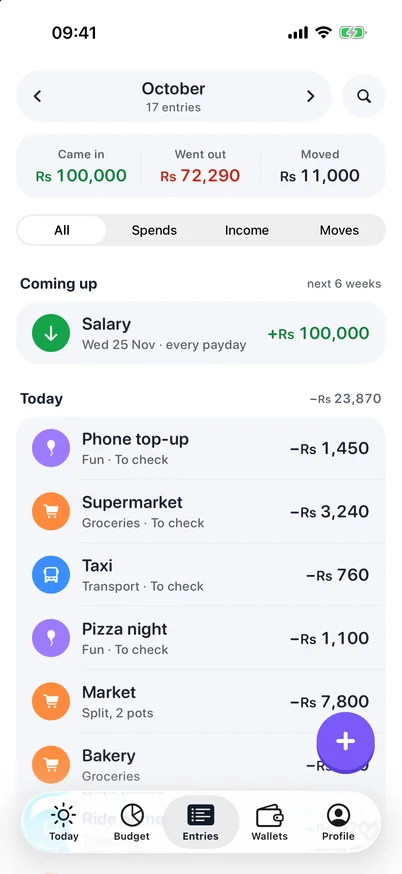
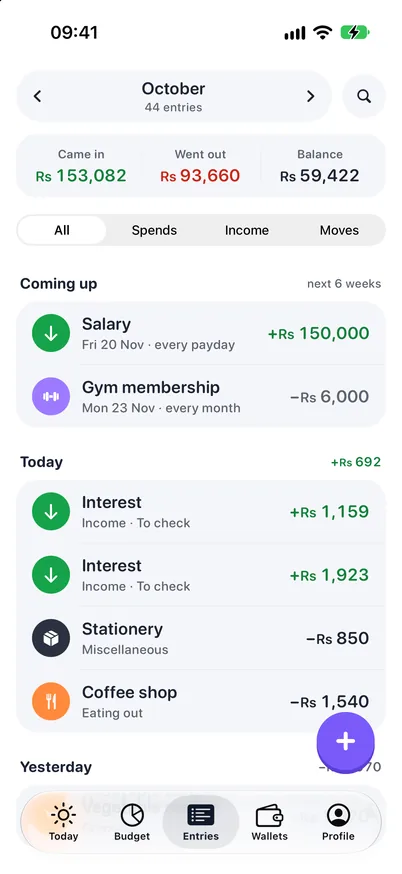
Add after you pay leads with Paste bank text and Siri; island once a day; Entries balance

diff --git a/privacy.html b/privacy.html
@@ -13,7 +13,7 @@
 <header class="nav lifted"><a class="brand" href="index.html"><img src="assets/icon-180.png" alt="" width="32" height="32"><span>Pouch</span></a></header>
 <main class="legal">
 <h1>Privacy policy</h1>
-<p>Last updated 30 October 2026.</p>
+<p>Last updated 31 October 2026.</p>
 <h2>Your money stays on your phone</h2>
 <p>Everything you put into Pouch (accounts, entries, pots, big buys and settings) is saved only on your iPhone. There is no Pouch account and no Pouch server, so nobody else can see it, us included, except what you choose to show on widgets or share. Pouch never asks for a bank login and never connects to your bank.</p>
 <h2>The one thing that goes online</h2>
@@ -22,8 +22,8 @@
 <p>No ads, no analytics, no tracking, and no sharing or selling of data. Pouch never asks for your contacts, photos or location. It asks for only two things, and only if you turn them on: Face ID for the lock, and notifications for the daily reminder. Both are optional, and iOS handles them on the phone.</p>
 <h2>Widgets</h2>
 <p>If you add a Pouch widget, Pouch copies the few figures it shows (safe to spend today, up to three pots and what is left, your savings goal, days logged this week) into a space on the phone that only Pouch and its widgets can read. Widgets on the Lock Screen can be seen without unlocking the phone; with Pouch&#x27;s lock on, they hide the amounts.</p>
-<p>If you turn on Safe today on the Lock Screen, the same figure shows in the Dynamic Island and on the Lock Screen after you log a spend, made on the phone by iOS. With Pouch&#x27;s lock on it shows only the share left, never an amount. </p>
-<p>If you set up Add after you pay, the automation you build in Apple&#x27;s Shortcuts hands Pouch only what you pick: from Apple Pay, the amount and the shop; from bank texts, the messages that match the words you chose. Pouch keeps each one in a file on your iPhone, in the space only Pouch and its widgets can read, until you add it or dismiss it, and then deletes it. Pouch never sees your other messages, never looks in your Wallet itself, and sends none of it anywhere.</p>
+<p>If you turn on Safe today on the Lock Screen, the same figure shows in the Dynamic Island and on the Lock Screen after your first spend of the day, made on the phone by iOS. If you swipe it away, it stays away until the next day. With Pouch&#x27;s lock on it shows only the share left, never an amount.</p>
+<p>Adding after you pay happens on your iPhone, three ways. Paste bank text: when you copy something, Pouch asks iOS only whether it looks like an amount or a date, and iOS answers without showing Pouch the text. Pouch reads the copied text only when you tap Paste bank text, picks out the amount and the shop, and keeps nothing else from it. Siri: when you say &quot;log a spend in Pouch&quot;, Siri hands Pouch the amount and place you said; Apple handles the voice request under its own privacy terms. Automatic, if you choose to build one: an automation in Apple&#x27;s Shortcuts hands Pouch only what you pick, an Apple Pay amount and shop or a bank text matching your words. Payments from Siri or an automation wait in a file on your iPhone, in the space only Pouch and its widgets can read, until you add or dismiss them, and then they are deleted. Pouch never reads your messages, never looks in your Wallet itself, and sends none of it anywhere.</p>
 <h2>Backups and export</h2>
 <p>Pouch saves a backup once a week in the Files app (On My iPhone &gt; Pouch), on the phone only. Your iPhone may include Pouch in its own iCloud or computer backups, as it does for every app. Those follow your iPhone settings and Apple&#x27;s privacy terms. Backups are ordinary files: anyone who can open Files on your unlocked iPhone can read them, and Pouch&#x27;s lock does not cover them. Export makes a file and opens the share sheet; where it goes is up to you.</p>
 <h2>Deleting your data</h2>

diff --git a/index.html b/index.html
@@ -219,14 +219,14 @@
       </div>
     </div>
     <div class="ex" id="after-you-pay">
-      <figure class="phone"><img src="assets/screen-just-paid.webp" alt="Just paid?: four payments Pouch saved today, each with its amount, ready to add" width="402" height="874" loading="lazy"></figure>
+      <figure class="phone"><img src="assets/screen-paste.webp" alt="New entry with a Paste bank text row, offered right after a bank text was copied" width="402" height="874" loading="lazy"></figure>
       <div class="ex-copy">
         <h2>Add after you pay</h2>
-        <p>Set it up once in Apple's Shortcuts, about a minute with every tap spelled out. After that, paying is enough. Pouch notes it in the background without opening.</p>
+        <p>Your bank texts you after a card payment. Copy that text and Pouch does the typing. No setup, and it works with any bank.</p>
         <ol class="points">
-          <li><b>You pay.</b> With Apple Pay, or with a card your bank texts you about.</li>
-          <li><b>Pouch saves it.</b> The amount and the shop, kept on your iPhone. A cash withdrawal counts as money moved, never as spending.</li>
-          <li><b>Tap Add.</b> Next time you open Pouch, Just paid? lists the day's payments. One tap fills in a new entry.</li>
+          <li><b>Copy the bank text.</b> Press and hold the message, then tap Copy.</li>
+          <li><b>Tap Paste bank text.</b> Open Pouch and tap +. The amount and shop fill in, and a cash withdrawal becomes a move to Cash.</li>
+          <li><b>Or ask Siri.</b> Say "Hey Siri, log a spend in Pouch". Pouch stays closed and asks Just paid? next time you open it.</li>
         </ol>
       </div>
     </div>
@@ -248,7 +248,7 @@
     <h2>Questions</h2>
     <details><summary>How does Pouch work out today's number?</summary><p>It takes the money for your month, sets aside your bills and what you chose to save, and shares the rest over the days left. Every spend you log moves it.</p></details>
     <details><summary>Does it connect to my bank?</summary><p>No. You log a spend in a few taps, and that small habit is what keeps your money in mind. Pouch never asks for a bank login.</p></details>
-    <details><summary>Can Pouch read my bank texts?</summary><p>Only the ones you choose. With Add after you pay, an automation you build in Apple's Shortcuts hands Pouch the card texts from your bank, or the amount and shop from Apple Pay. They stay on your iPhone, and Pouch never sees your other messages.</p></details>
+    <details><summary>Can Pouch read my bank texts?</summary><p>No. Pouch never reads your messages. When you copy a bank text yourself and tap Paste bank text, Pouch reads only that copied text, on your iPhone, to fill in the amount and shop.</p></details>
     <details><summary>Where is my data kept?</summary><p>Only on your iPhone. There is no Pouch account and no Pouch server. A backup is saved once a week in the Files app.</p></details>
     <details><summary>When can I get it?</summary><p>Pouch is being tested now and is coming to the App Store for iPhone.</p></details>
   </section>

diff --git a/support.html b/support.html
@@ -19,9 +19,9 @@
 <h2>I got a new phone</h2>
 <p>Restore your iPhone from an iCloud or computer backup and Pouch comes with it. Or copy a Pouch backup file to the new phone and open Profile &gt; Restore a backup.</p>
 <h2>How do I add a spend faster?</h2>
-<p>Tap + on any tab. To have Pouch note payments as you make them, see Profile &gt; Add after you pay: it sets up a Shortcut in about a minute. Next time you open Pouch, Just paid? lists them, and one tap adds each one.</p>
+<p>Tap + on any tab. After a card payment, copy your bank&#x27;s text, then tap + and Paste bank text: the amount and shop fill in. You can also say &quot;Hey Siri, log a spend in Pouch&quot;. Profile &gt; Add after you pay shows every way, step by step.</p>
 <h2>The Dynamic Island isn&#x27;t showing</h2>
-<p>Turn on Profile &gt; Safe today on Lock Screen, then log a spend. It shows after a spend, not when you open the app.</p>
+<p>Turn on Profile &gt; Safe today on Lock Screen, then log a spend. It starts with your first spend of the day, not when you open the app. If you swiped it away, it comes back tomorrow.</p>
 <h2>How do I delete everything?</h2>
 <p>Profile &gt; Delete all data, then hold the button. Deleting the app also removes everything.</p>
 <h2>Privacy</h2>
